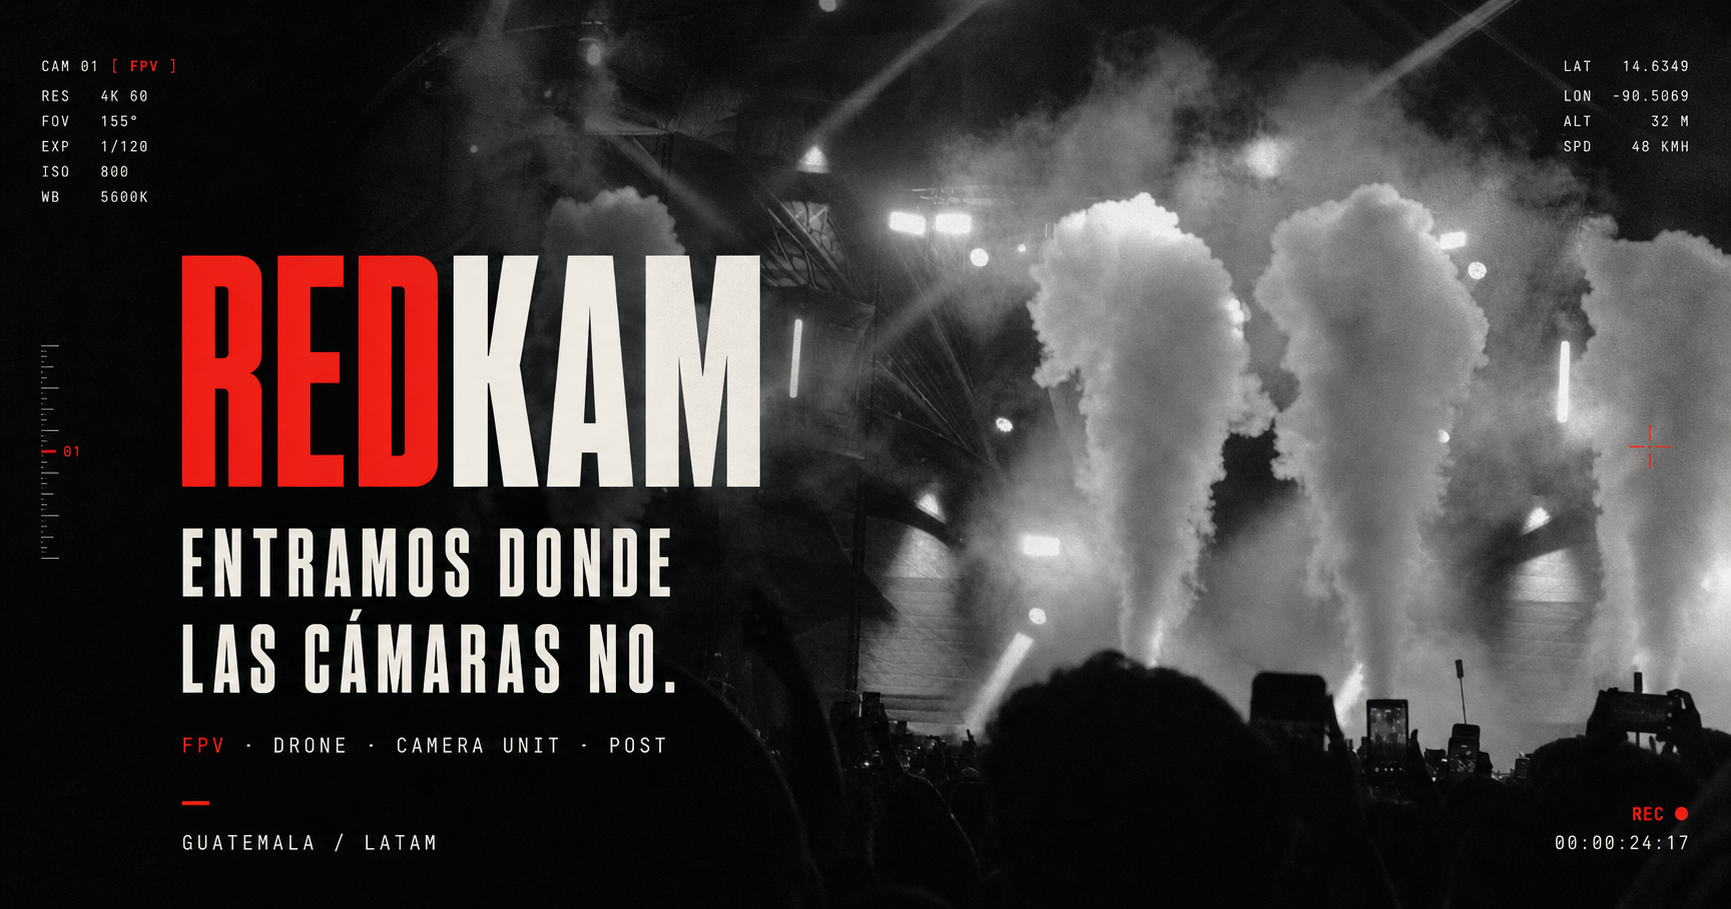
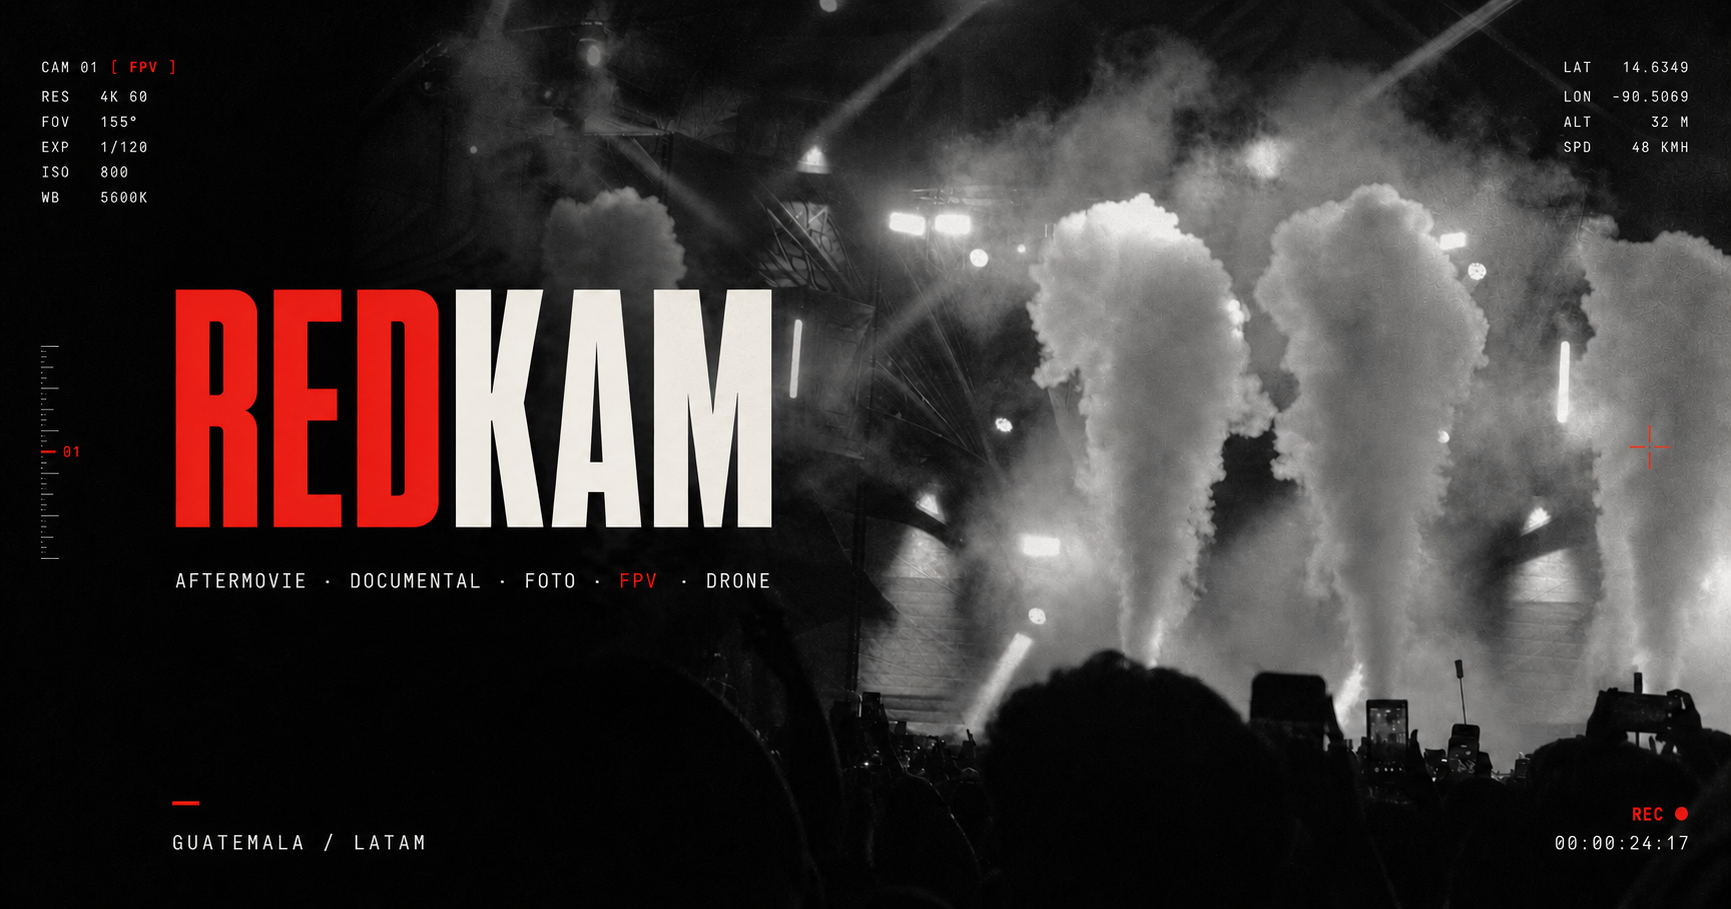
Add files via upload

diff --git a/app/page.tsx b/app/page.tsx
@@ -9,6 +9,7 @@ type Project = {
   type: string;
   image: string;
   video: string;
+  mediaType?: "video/mp4" | "video/webm";
   shape?: "wide" | "portrait" | "square";
 };
 
@@ -17,12 +18,8 @@ const copy = {
     nav: ["Trabajo", "Servicios", "Operación", "Contacto"],
     soundOn: "Sonido ON",
     soundOff: "Sonido",
-    eyebrow: "FPV · DRONE · CAMERA UNIT · POST",
-    heroA: "Entramos donde",
-    heroB: "las cámaras",
-    heroC: "no.",
-    heroBody:
-      "Producción y operación audiovisual especializada para eventos, marcas y campañas.",
+    heroTitle: "REDKAM",
+    heroBody: "Aftermovie • Documental • Foto • FPV • Drone",
     viewWork: "Explorar trabajos",
     signal: "SEÑAL 06 / EN VIVO",
     introLabel: "00 / EXECUTION UNIT",
@@ -30,7 +27,6 @@ const copy = {
     introTitleB: "Nuestra ejecución.",
     introBody:
       "Nos integramos al brief, la producción y los lineamientos de tu marca para ejecutar una cobertura imposible de ignorar.",
-    manifestoQuiet: "No vendemos conceptos que no fueron contratados.",
     manifestoA: "Brief. Coordinación.",
     manifestoB: "Captura. Entrega.",
     workIndex: "01 / SELECTED WORK",
@@ -67,12 +63,8 @@ const copy = {
     nav: ["Work", "Services", "Operation", "Contact"],
     soundOn: "Sound ON",
     soundOff: "Sound",
-    eyebrow: "FPV · DRONE · CAMERA UNIT · POST",
-    heroA: "We enter where",
-    heroB: "cameras",
-    heroC: "cannot.",
-    heroBody:
-      "Specialized audiovisual production and operation for events, brands and campaigns.",
+    heroTitle: "REDKAM",
+    heroBody: "Aftermovie • Documentary • Photo • FPV • Drone",
     viewWork: "Explore the work",
     signal: "SIGNAL 06 / LIVE",
     introLabel: "00 / EXECUTION UNIT",
@@ -80,7 +72,6 @@ const copy = {
     introTitleB: "Our execution.",
     introBody:
       "We join your brief, production and brand guidelines to execute coverage that is impossible to ignore.",
-    manifestoQuiet: "We do not sell concepts that were not commissioned.",
     manifestoA: "Brief. Coordination.",
     manifestoB: "Capture. Delivery.",
     workIndex: "01 / SELECTED WORK",
@@ -117,6 +108,13 @@ const copy = {
 
 const projects: Project[] = [
   {
+    title: "AFTERMOVIE",
+    type: "LIVE / ARTIST / CAMERA",
+    image: "/assets/new/aftermovie-live.png",
+    video: "/assets/new/aftermovie-live.mp4",
+    shape: "wide",
+  },
+  {
     title: "MYKE TOWERS",
     type: "LIVE / ARTIST / CAMERA",
     image: "/assets/v63/myke-bw.jpg",
@@ -131,22 +129,43 @@ const projects: Project[] = [
     shape: "wide",
   },
   {
+    title: "FASHION",
+    type: "FASHION / LIFESTYLE / CAMERA",
+    image: "/assets/v63/campaign-01.jpg",
+    video: "/assets/v63/campaign-01.mp4",
+    shape: "square",
+  },
+  {
+    title: "MODELING",
+    type: "CLOTHING / MODELING / CAMERA",
+    image: "/assets/v63/campaign-04.jpg",
+    video: "/assets/v63/campaign-04.mp4",
+    shape: "wide",
+  },
+  {
     title: "FIREWORKS",
     type: "EMF / PYRO / FPV",
     image: "/assets/v63/fireworks-emf.jpg",
     video: "/assets/v63/fireworks-emf.mp4",
     shape: "portrait",
   },
-  {
-    title: "CAMPAIGN 01",
-    type: "FASHION / LIFESTYLE / CAMERA",
-    image: "/assets/v63/campaign-01.jpg",
-    video: "/assets/v63/campaign-01.mp4",
-    shape: "square",
-  },
 ];
 
-const archive = [
+const archive: Project[] = [
+  {
+    title: "LIVE SESSION",
+    type: "PERFORMANCE / STAGE / CAMERA",
+    image: "/assets/new/live-session.png",
+    video: "/assets/new/live-session.webm",
+    mediaType: "video/webm",
+  },
+  {
+    title: "BRAND EXPERIENCE",
+    type: "EVENT / LIFESTYLE / CAMERA",
+    image: "/assets/new/brand-experience.png",
+    video: "/assets/new/brand-experience.webm",
+    mediaType: "video/webm",
+  },
   {
     title: "SUBTRONICS",
     type: "LIVE / STAGE / SOCIAL",
@@ -164,12 +183,6 @@ const archive = [
     type: "LIVE / VENUE / COVERAGE",
     image: "/assets/new/ed-sheeran.jpg",
     video: "/assets/new/ed-sheeran.mp4",
-  },
-  {
-    title: "YANDEL + KAPO",
-    type: "LIVE / ARTIST / SOCIAL",
-    image: "/assets/new/yandel-kapo.jpg",
-    video: "/assets/new/yandel-kapo.mp4",
   },
 ];
 
@@ -376,12 +389,7 @@ export default function Home() {
           <div className="hero__telemetry hero__telemetry--right"><span>LAT 14.6349</span><span>LON -90.5069</span><span>ALT 32M</span></div>
           <div className="hero__signal"><i />{t.signal}</div>
           <div className="hero__content">
-            <p className="eyebrow">{t.eyebrow}</p>
-            <h1 aria-label={`${t.heroA} ${t.heroB} ${t.heroC}`}>
-              <span>{t.heroA}</span>
-              <em>{t.heroB}</em>
-              <span>{t.heroC}</span>
-            </h1>
+            <h1 aria-label={t.heroTitle}><span>{t.heroTitle}</span></h1>
             <div className="hero__bottom">
               <p>{t.heroBody}</p>
               <a className="line-link" href="#work"><span>{t.viewWork}</span><Arrow down /></a>
@@ -406,7 +414,6 @@ export default function Home() {
 
         <section className="manifesto reveal" aria-label="Manifesto">
           <span className="section-index">THE SCOPE / CLEAR</span>
-          <p className="manifesto__quiet">{t.manifestoQuiet}</p>
           <p className="manifesto__loud">{t.manifestoA}<br /><span>{t.manifestoB}</span></p>
           <div className="manifesto__line"><i /></div>
         </section>
@@ -421,7 +428,7 @@ export default function Home() {
               <button className={`project project--${project.shape} reveal`} key={project.title} type="button" onClick={() => openVideo(project.title, project.video)} aria-label={`${t.play}: ${project.title}`}>
                 <span className="project__blur" style={{ backgroundImage: `url(${project.image})` }} />
                 <video muted loop playsInline preload="metadata" poster={project.image}>
-                  <source src={project.video} type="video/mp4" />
+                  <source src={project.video} type={project.mediaType ?? "video/mp4"} />
                 </video>
                 <span className="project__shade" />
                 <span className="project__number">0{index + 1}</span>

diff --git a/app/layout.tsx b/app/layout.tsx
@@ -21,21 +21,21 @@ export async function generateMetadata(): Promise<Metadata> {
 
   return {
     metadataBase: base,
-    title: "REDKAM — Production + Execution Unit",
+    title: "REDKAM — Aftermovie, Documental, Foto, FPV y Drone",
     description:
-      "Unidad de producción y ejecución audiovisual especializada en FPV, drone, cámara y postproducción desde Guatemala.",
+      "Portafolio audiovisual de REDKAM: aftermovie, documental, fotografía, FPV y drone desde Guatemala.",
     applicationName: "REDKAM",
     openGraph: {
       type: "website",
       locale: "es_GT",
-      title: "REDKAM — Production + Execution Unit",
-      description: "Entramos donde las cámaras no.",
-      images: [{ url: socialImage, width: 1731, height: 909, alt: "REDKAM — Entramos donde las cámaras no." }],
+      title: "REDKAM — Aftermovie, Documental, Foto, FPV y Drone",
+      description: "Aftermovie • Documental • Foto • FPV • Drone",
+      images: [{ url: socialImage, width: 1731, height: 909, alt: "REDKAM — Aftermovie, Documental, Foto, FPV y Drone" }],
     },
     twitter: {
       card: "summary_large_image",
-      title: "REDKAM — Production + Execution Unit",
-      description: "Entramos donde las cámaras no.",
+      title: "REDKAM — Aftermovie, Documental, Foto, FPV y Drone",
+      description: "Aftermovie • Documental • Foto • FPV • Drone",
       images: [socialImage],
     },
   };

diff --git a/app/globals.css b/app/globals.css
@@ -199,6 +199,7 @@
     line-height: .74;
     text-transform: uppercase;
   }
+  .hero h1 { font-size: clamp(80px, 12vw, 210px); }
   .hero h1 span, .hero h1 em { display: block; font-style: normal; }
   .hero h1 em, .cinema-statement h2 em, .live-portal h2 em, .contact h2 em { color: transparent; -webkit-text-stroke: 1px rgba(240,237,229,.84); font-style: normal; }
   .hero__bottom { display: grid; grid-template-columns: minmax(250px, 530px) auto; gap: 42px; align-items: end; margin-top: 30px; }
@@ -241,7 +242,7 @@
 
   .manifesto { min-height: 72svh; padding: clamp(90px, 12vw, 180px) var(--pad); border-bottom: 1px solid var(--line); background: #080808; }
   .manifesto__quiet { margin-top: 80px; color: var(--soft); font-size: clamp(18px, 2vw, 31px); line-height: 1.25; }
-  .manifesto__loud { margin-top: 24px; font-size: clamp(54px, 8.2vw, 140px); font-weight: 900; letter-spacing: -.075em; line-height: .82; text-transform: uppercase; }
+  .manifesto__loud { margin-top: clamp(48px, 7vw, 90px); font-size: clamp(54px, 8.2vw, 140px); font-weight: 900; letter-spacing: -.075em; line-height: .82; text-transform: uppercase; }
   .manifesto__loud span { color: var(--red); }
   .manifesto__line { height: 1px; margin-top: 70px; overflow: hidden; background: var(--line); }
   .manifesto__line i { display: block; width: 38%; height: 100%; background: var(--red); transform: translateX(-100%); transition: transform 1.4s .3s var(--ease); }

diff --git a/README.md b/README.md
@@ -1,98 +1,55 @@
-# vinext-starter
+# REDKAM — Cinema Portfolio
 
-A clean full-stack starter running on
-[vinext](https://github.com/cloudflare/vinext), with optional Cloudflare D1 and
-Drizzle support.
+Portafolio audiovisual inmersivo de REDKAM para aftermovies, documental, fotografía, FPV y drone. El proyecto incluye transiciones, videos optimizados para web, navegación en español/inglés y diseño adaptable para móvil y escritorio.
 
-## Prerequisites
+## Requisitos
 
-- Node.js `>=22.13.0`
+- Node.js 22.13 o superior
+- pnpm 11
 
-## Quick Start
+## Ejecutar localmente
 
 ```bash
-npm install
-npm run dev
-npm run build
+pnpm install
+pnpm dev
 ```
 
-This starter does not use `wrangler.jsonc`.
+Abre la dirección local que aparece en la terminal.
 
-## Included Shape
+## Verificar la versión final
 
-- edit site code under `app/`
-- `.openai/hosting.json` declares optional Sites D1 and R2 bindings
-- `vite.config.ts` simulates declared bindings for local development
-- `db/schema.ts` starts intentionally empty
-- `examples/d1/` contains an optional D1 example surface
-- `drizzle.config.ts` supports local migration generation when needed
-
-## Workspace Auth Headers
-
-OpenAI workspace sites can read the current user's email from
-`oai-authenticated-user-email`.
-
-SIWC-authenticated workspace sites may also receive
-`oai-authenticated-user-full-name` when the user's SIWC profile has a non-empty
-`name` claim. The full-name value is percent-encoded UTF-8 and is accompanied by
-`oai-authenticated-user-full-name-encoding: percent-encoded-utf-8`.
-
-Treat the full name as optional and fall back to email when it is absent:
-
-```tsx
-import { headers } from "next/headers";
-
-export default async function Home() {
-  const requestHeaders = await headers();
-  const email = requestHeaders.get("oai-authenticated-user-email");
-  const encodedFullName = requestHeaders.get("oai-authenticated-user-full-name");
-  const fullName =
-    encodedFullName &&
-    requestHeaders.get("oai-authenticated-user-full-name-encoding") ===
-      "percent-encoded-utf-8"
-      ? decodeURIComponent(encodedFullName)
-      : null;
-
-  const displayName = fullName ?? email;
-  // ...
-}
+```bash
+pnpm build
+pnpm test
 ```
 
-## Optional Dispatch-Owned ChatGPT Sign-In
+## Subir a GitHub
 
-Import the ready-to-use helpers from `app/chatgpt-auth.ts` when the site needs
-optional or required ChatGPT sign-in:
+Descomprime el ZIP, abre una terminal dentro de la carpeta `redkam-cinema-portfolio` y ejecuta:
 
-- Use `getChatGPTUser()` for optional signed-in UI.
-- Use `requireChatGPTUser(returnTo)` for server-rendered pages that should send
-  anonymous visitors through Sign in with ChatGPT.
-- Use `chatGPTSignInPath(returnTo)` and `chatGPTSignOutPath(returnTo)` for
-  browser links or actions.
-- Pass a same-origin relative `returnTo` path for the destination after sign-in
-  or sign-out. The helper validates and safely encodes it.
-- Mark protected pages with `export const dynamic = "force-dynamic"` because
-  they depend on per-request identity headers.
+```bash
+git init
+git add .
+git commit -m "Publica portafolio REDKAM"
+git branch -M main
+git remote add origin https://github.com/TU-USUARIO/TU-REPOSITORIO.git
+git push -u origin main
+```
 
-Dispatch owns `/signin-with-chatgpt`, `/signout-with-chatgpt`, `/callback`, the
-OAuth cookies, and identity header injection. Do not implement app routes for
-those reserved paths. Routes that do not import and call the helper remain
-anonymous-compatible.
+Reemplaza `TU-USUARIO` y `TU-REPOSITORIO` por los datos de tu cuenta. También puedes arrastrar el contenido de la carpeta a un repositorio desde GitHub Desktop.
 
-SIWC establishes identity only; it does not prove workspace membership. Use the
-Sites hosting platform's access policy controls for workspace-wide restrictions,
-or enforce explicit server-side membership or allowlist checks.
+## Estructura principal
 
-Use SIWC for account pages, user-specific dashboards, saved records, and write
-actions tied to the current ChatGPT user. Leave public content anonymous.
+- `app/page.tsx`: contenido, proyectos e interacciones.
+- `app/globals.css`: dirección visual, animaciones y diseño adaptable.
+- `public/assets/`: imágenes y videos del portafolio.
+- `public/og.png`: imagen que aparece al compartir el enlace.
+- `.openai/hosting.json`: configuración del proyecto publicado con Sites.
 
-## Useful Commands
+Los videos añadidos recientemente ya están optimizados y cada archivo está por debajo de 20 MB. No hace falta incluir los archivos originales de más de 190 MB ni los recursos antiguos de Domino’s.
 
-- `npm run dev`: start local development
-- `npm run build`: verify the vinext build output
-- `npm test`: build the starter and verify its rendered loading skeleton
-- `npm run db:generate`: generate Drizzle migrations after schema changes
+El ZIP se debe descomprimir antes de subir el proyecto. Consulta `SUBIR-A-GITHUB.md` para ver el proceso recomendado.
 
-## Learn More
+## Tecnología
 
-- [vinext Documentation](https://github.com/cloudflare/vinext)
-- [Drizzle D1 Guide](https://orm.drizzle.team/docs/get-started/d1-new)
+El sitio usa React, Next.js y vinext, con salida compatible con Cloudflare Workers y OpenAI Sites. No necesita variables de entorno ni base de datos para mostrar el portafolio.

diff --git a/SUBIR-A-GITHUB.md b/SUBIR-A-GITHUB.md
@@ -1,0 +1,20 @@
+# Cómo subir esta versión a GitHub
+
+## Importante
+
+No subas el archivo ZIP al repositorio. El ZIP solamente sirve para descargar y transportar el proyecto.
+
+1. Descomprime `redkam-github-web-ready.zip` en tu Mac.
+2. Abre la carpeta descomprimida `redkam-github-web-ready`.
+3. Sube el contenido de esa carpeta al repositorio.
+
+## Opción recomendada: GitHub Desktop
+
+1. Abre GitHub Desktop.
+2. Selecciona **File → Add Local Repository**.
+3. Elige la carpeta `redkam-github-web-ready`.
+4. Crea el commit y selecciona **Publish repository** o **Push origin**.
+
+## Si usas la página web de GitHub
+
+En el repositorio selecciona **Add file → Upload files** y arrastra el contenido de la carpeta descomprimida, no el ZIP. Todos los archivos de esta versión pesan menos de 20 MB.